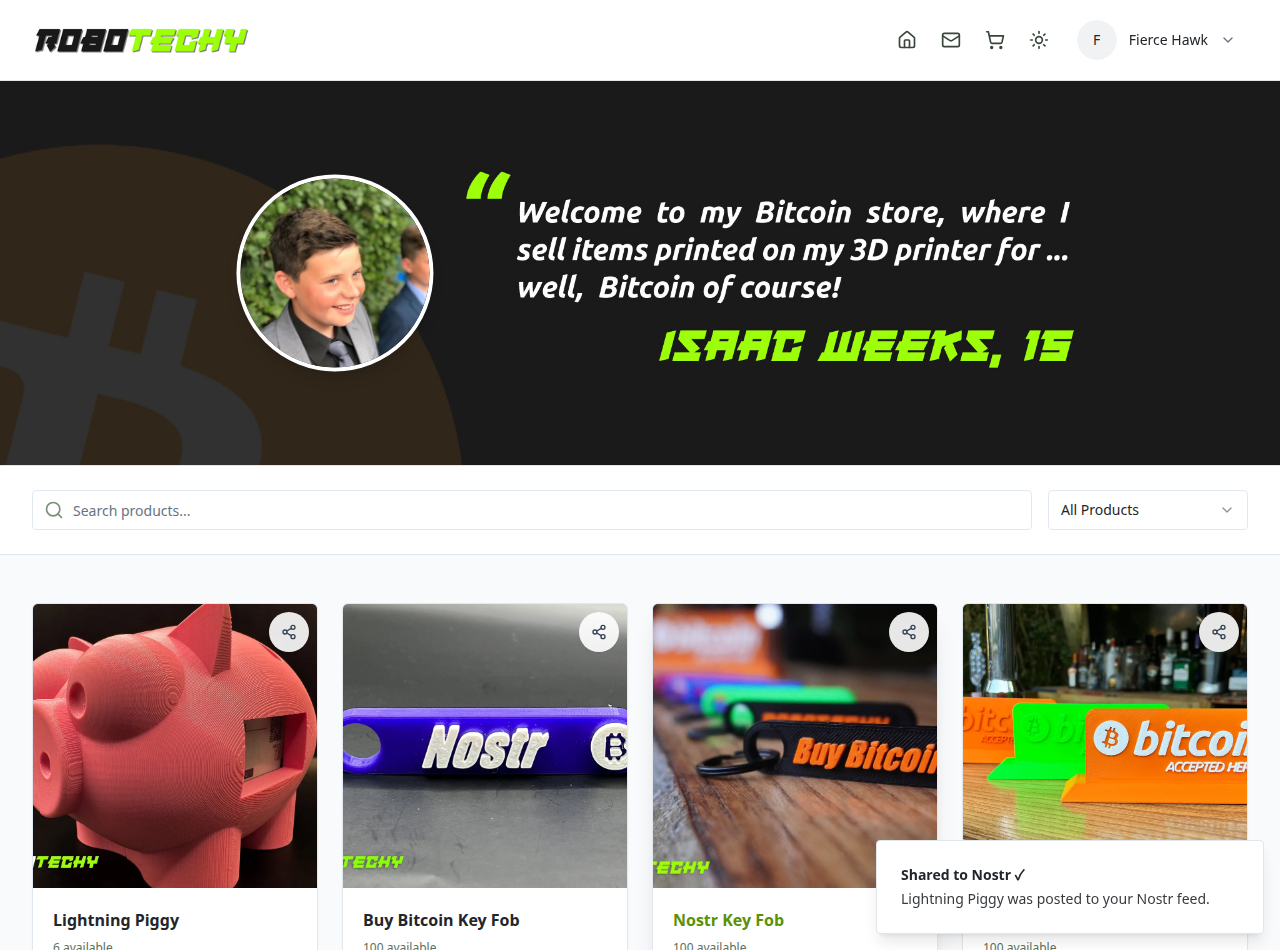
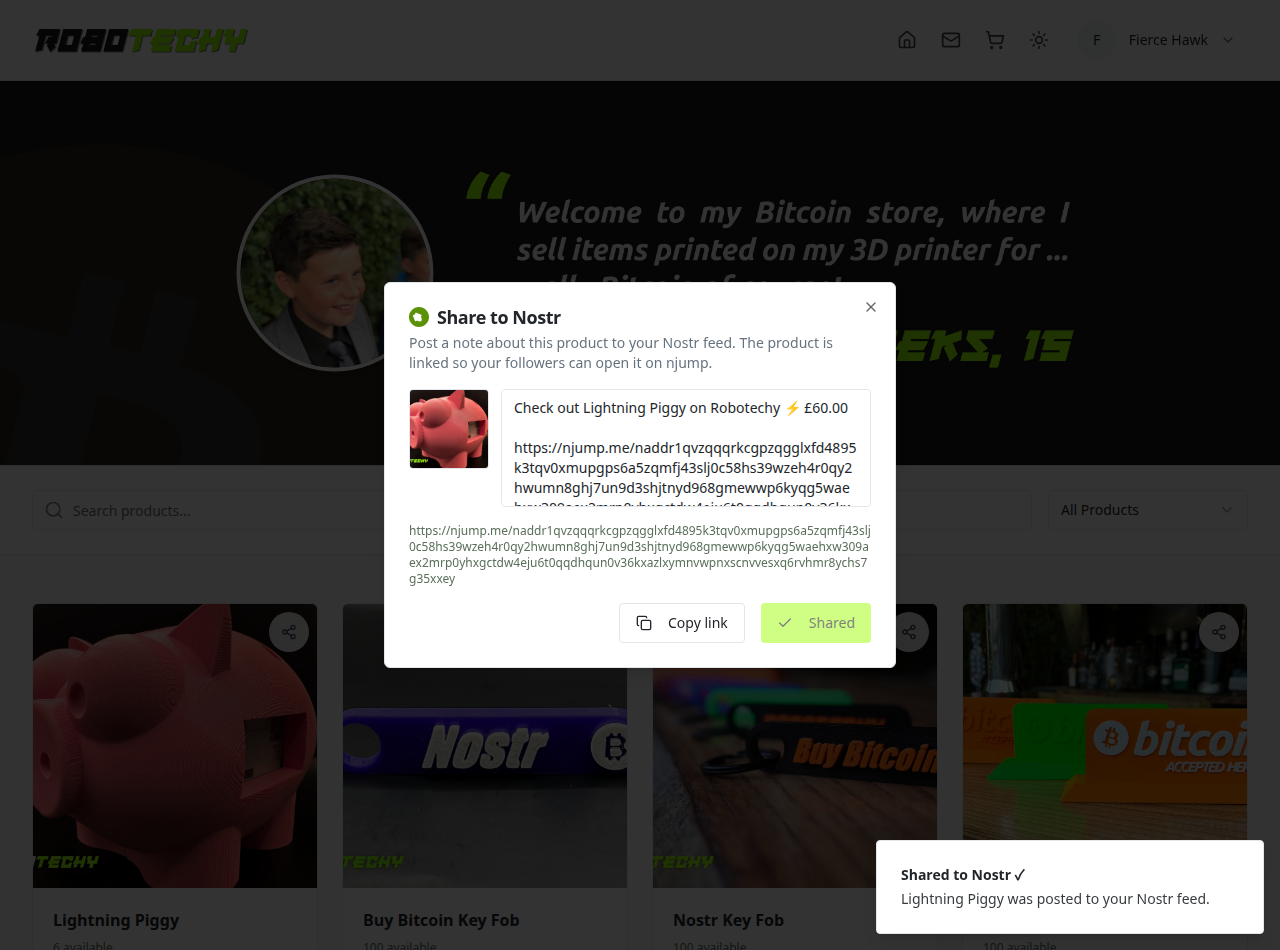
fix: address second-pass Copilot review on share-product
- Keep the compose dialog open on a successful publish so the "Shared"
  success state is observable (and the e2e flow that waits for it is stable);
  the user closes the dialog, and the toast still confirms.
- Hide the naddr e2e/tooling hook span with `hidden` instead of `sr-only` so
  it stays out of the accessibility tree (it carries no user-facing text).
- Rename the product-author pubkey to `merchantPubkey` to avoid confusion
  with the signed-in shopper's pubkey near publishing.

diff --git a/src/components/ShareProductButton.tsx b/src/components/ShareProductButton.tsx
@@ -73,7 +73,10 @@ export function ShareProductButton({
   const [noteText, setNoteText] = useState('');
   const [justShared, setJustShared] = useState(false);
 
-  const pubkey = product.event.pubkey;
+  // The product event's author (the merchant) — distinct from the signed-in
+  // shopper (`user` from useCurrentUser). Named explicitly so a future edit
+  // near publishing can't accidentally swap the two.
+  const merchantPubkey = product.event.pubkey;
   const imageUrl = product.images[0]?.url;
 
   // Up to two read relays as naddr hints so clients (njump, etc.) can resolve
@@ -92,7 +95,7 @@ export function ShareProductButton({
   // The product's portable pointer and the human-facing njump link. Memoised so
   // every menu action (copy / native share / Nostr note) uses the same URL.
   const { naddr, njumpUrl, defaultNote } = useMemo(() => {
-    const naddr = buildProductNaddr(pubkey, product.id, relayHints);
+    const naddr = buildProductNaddr(merchantPubkey, product.id, relayHints);
     const njumpUrl = buildNjumpUrl(naddr);
     const defaultNote = buildShareNoteContent({
       title: product.title,
@@ -100,7 +103,7 @@ export function ShareProductButton({
       njumpUrl,
     });
     return { naddr, njumpUrl, defaultNote };
-  }, [pubkey, product.id, product.title, product.price, relayHints]);
+  }, [merchantPubkey, product.id, product.title, product.price, relayHints]);
 
   const copyLink = async () => {
     try {
@@ -152,7 +155,7 @@ export function ShareProductButton({
   const publishNote = async () => {
     try {
       const event = buildShareNoteEvent({
-        pubkey,
+        pubkey: merchantPubkey,
         identifier: product.id,
         title: product.title,
         price: product.price,
@@ -161,12 +164,13 @@ export function ShareProductButton({
         content: noteText.trim() || defaultNote,
       });
       await publishEvent(event);
+      // Keep the dialog open and flip to the "Shared" state so success is
+      // visible; the user closes the dialog themselves (and the toast confirms).
       setJustShared(true);
       toast({
         title: 'Shared to Nostr ✓',
         description: `${product.title} was posted to your Nostr feed.`,
       });
-      setShowCompose(false);
     } catch (error) {
       toast({
         title: 'Could not share',
@@ -286,9 +290,11 @@ export function ShareProductButton({
         }}
       />
 
-      {/* naddr kept in the DOM (visually hidden) so e2e / tooling can assert the
-          product's addressable pointer without opening the menu. */}
-      <span className="sr-only" data-product-naddr={naddr} />
+      {/* naddr kept in the DOM purely as an e2e/tooling hook so tests can assert
+          the product's addressable pointer without opening the menu. `hidden`
+          (not sr-only) keeps it out of the a11y tree — it carries no
+          user-facing text — while `getAttribute` still works for tests. */}
+      <span hidden data-product-naddr={naddr} />
     </>
   );
 }
